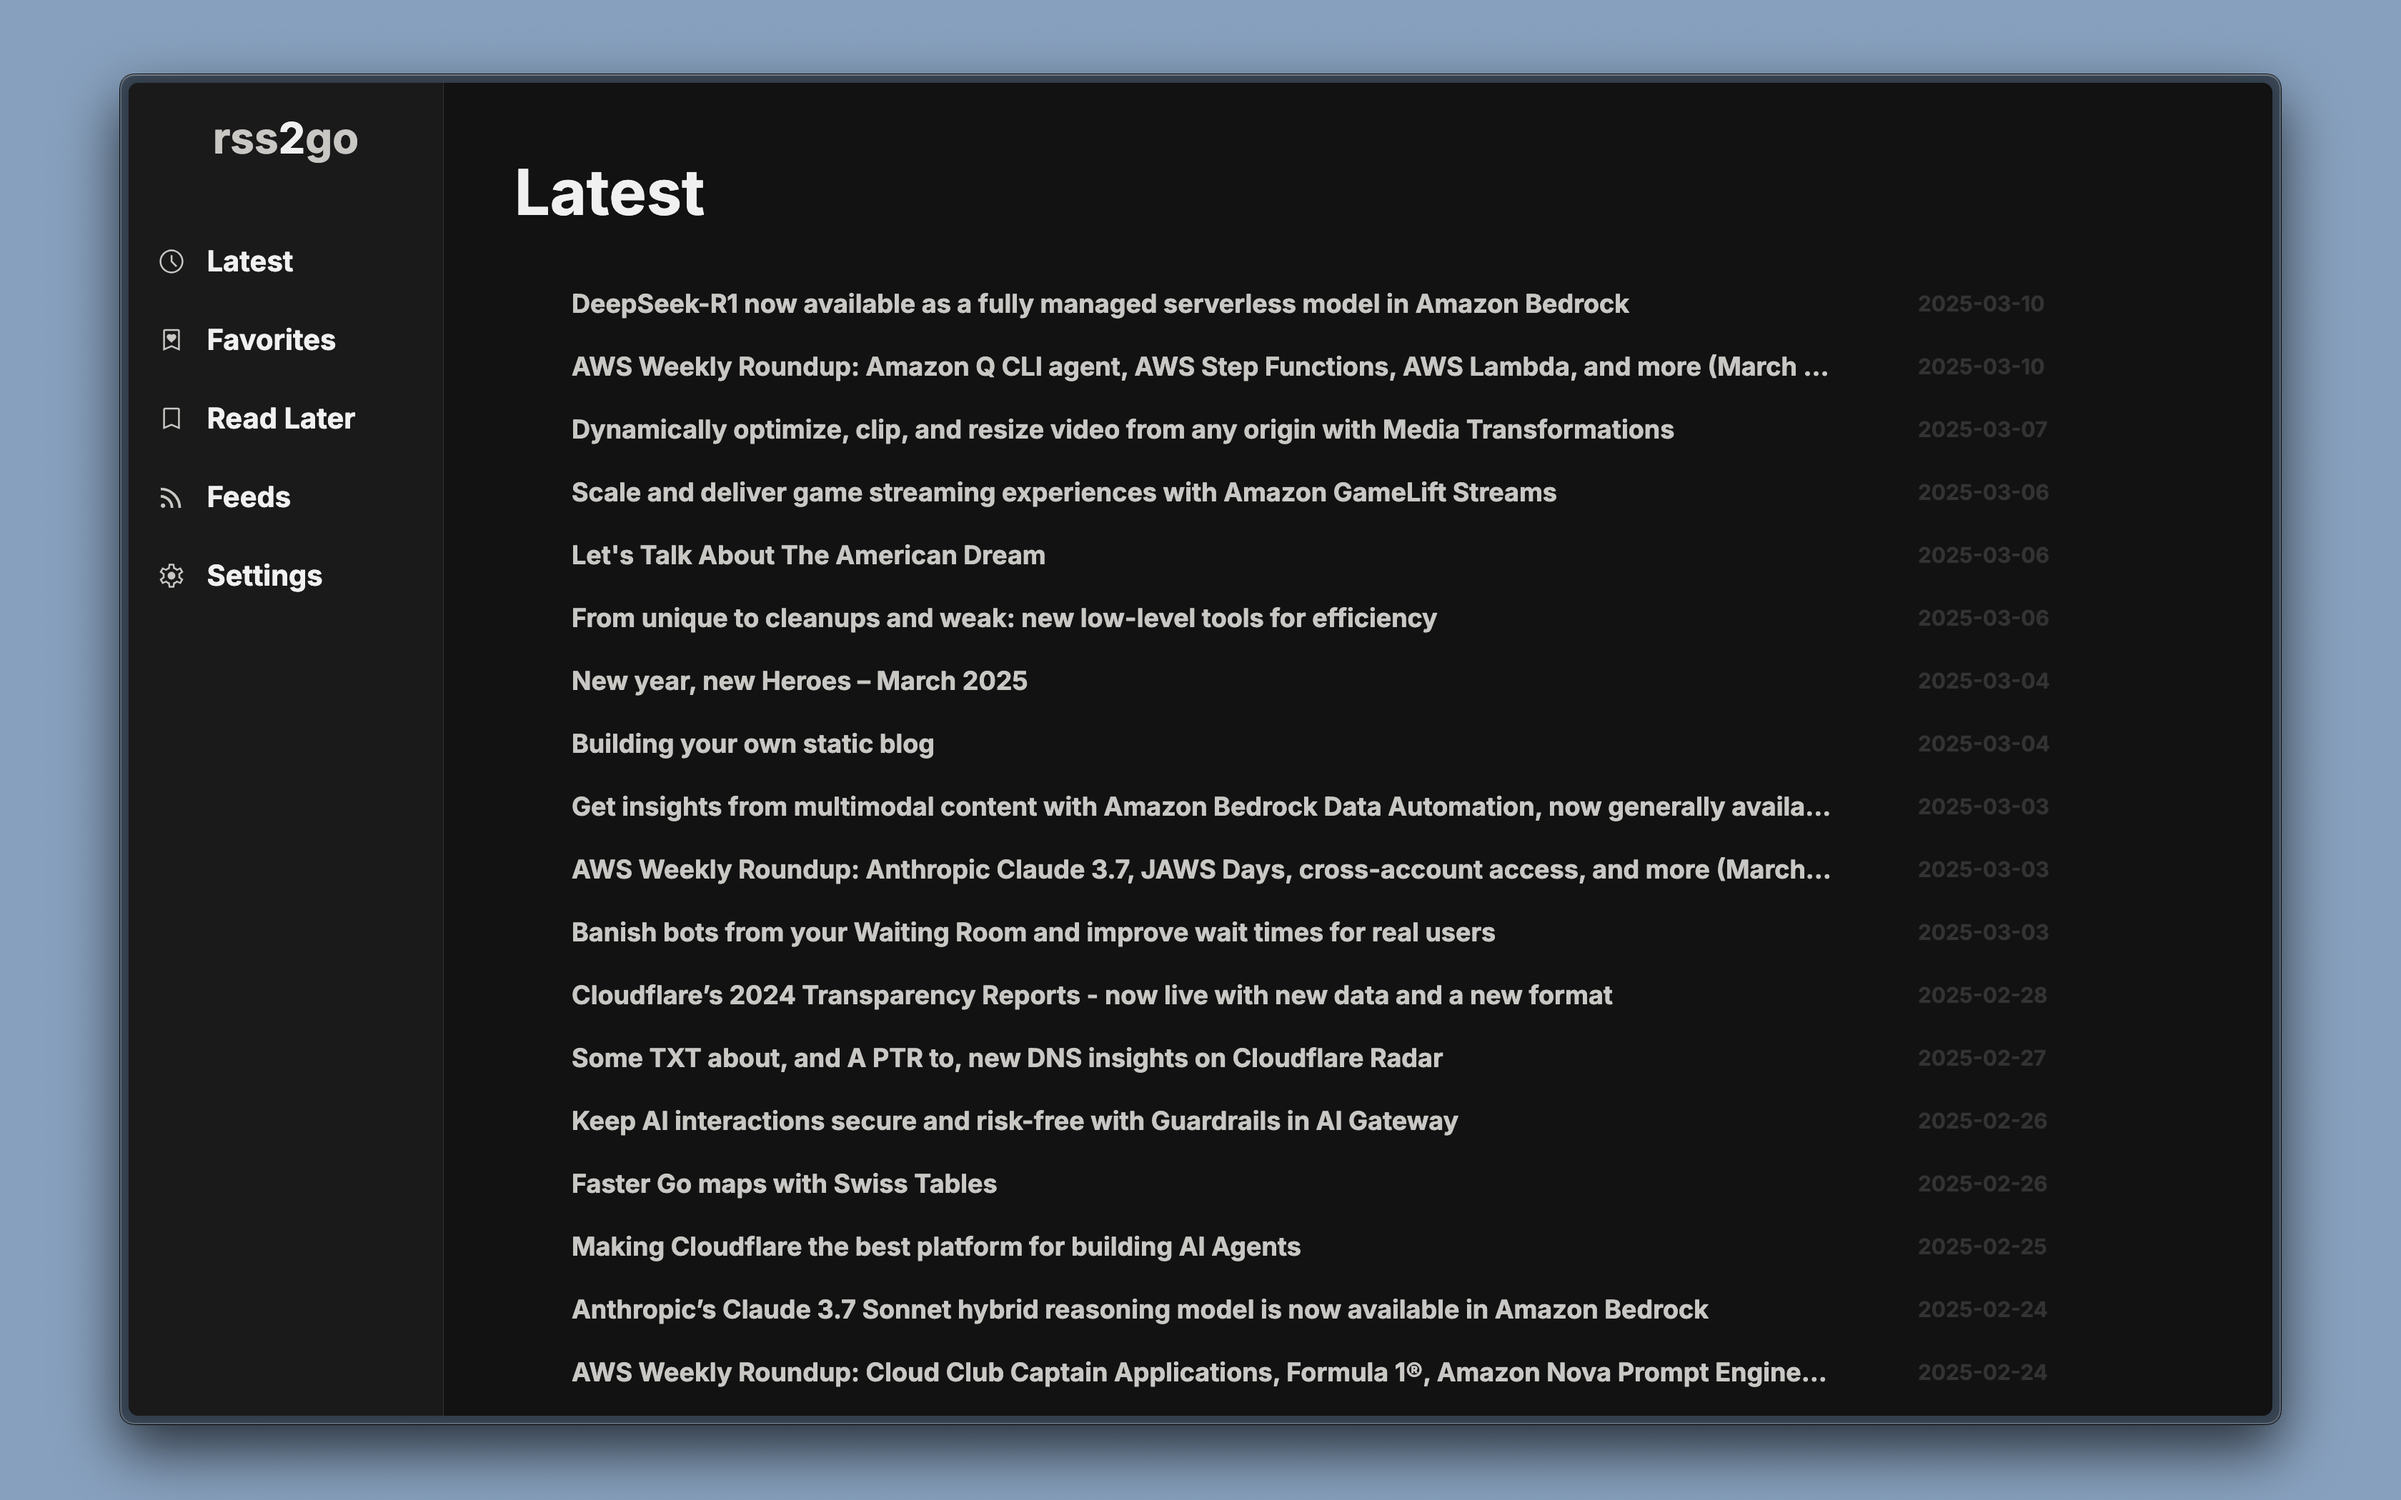
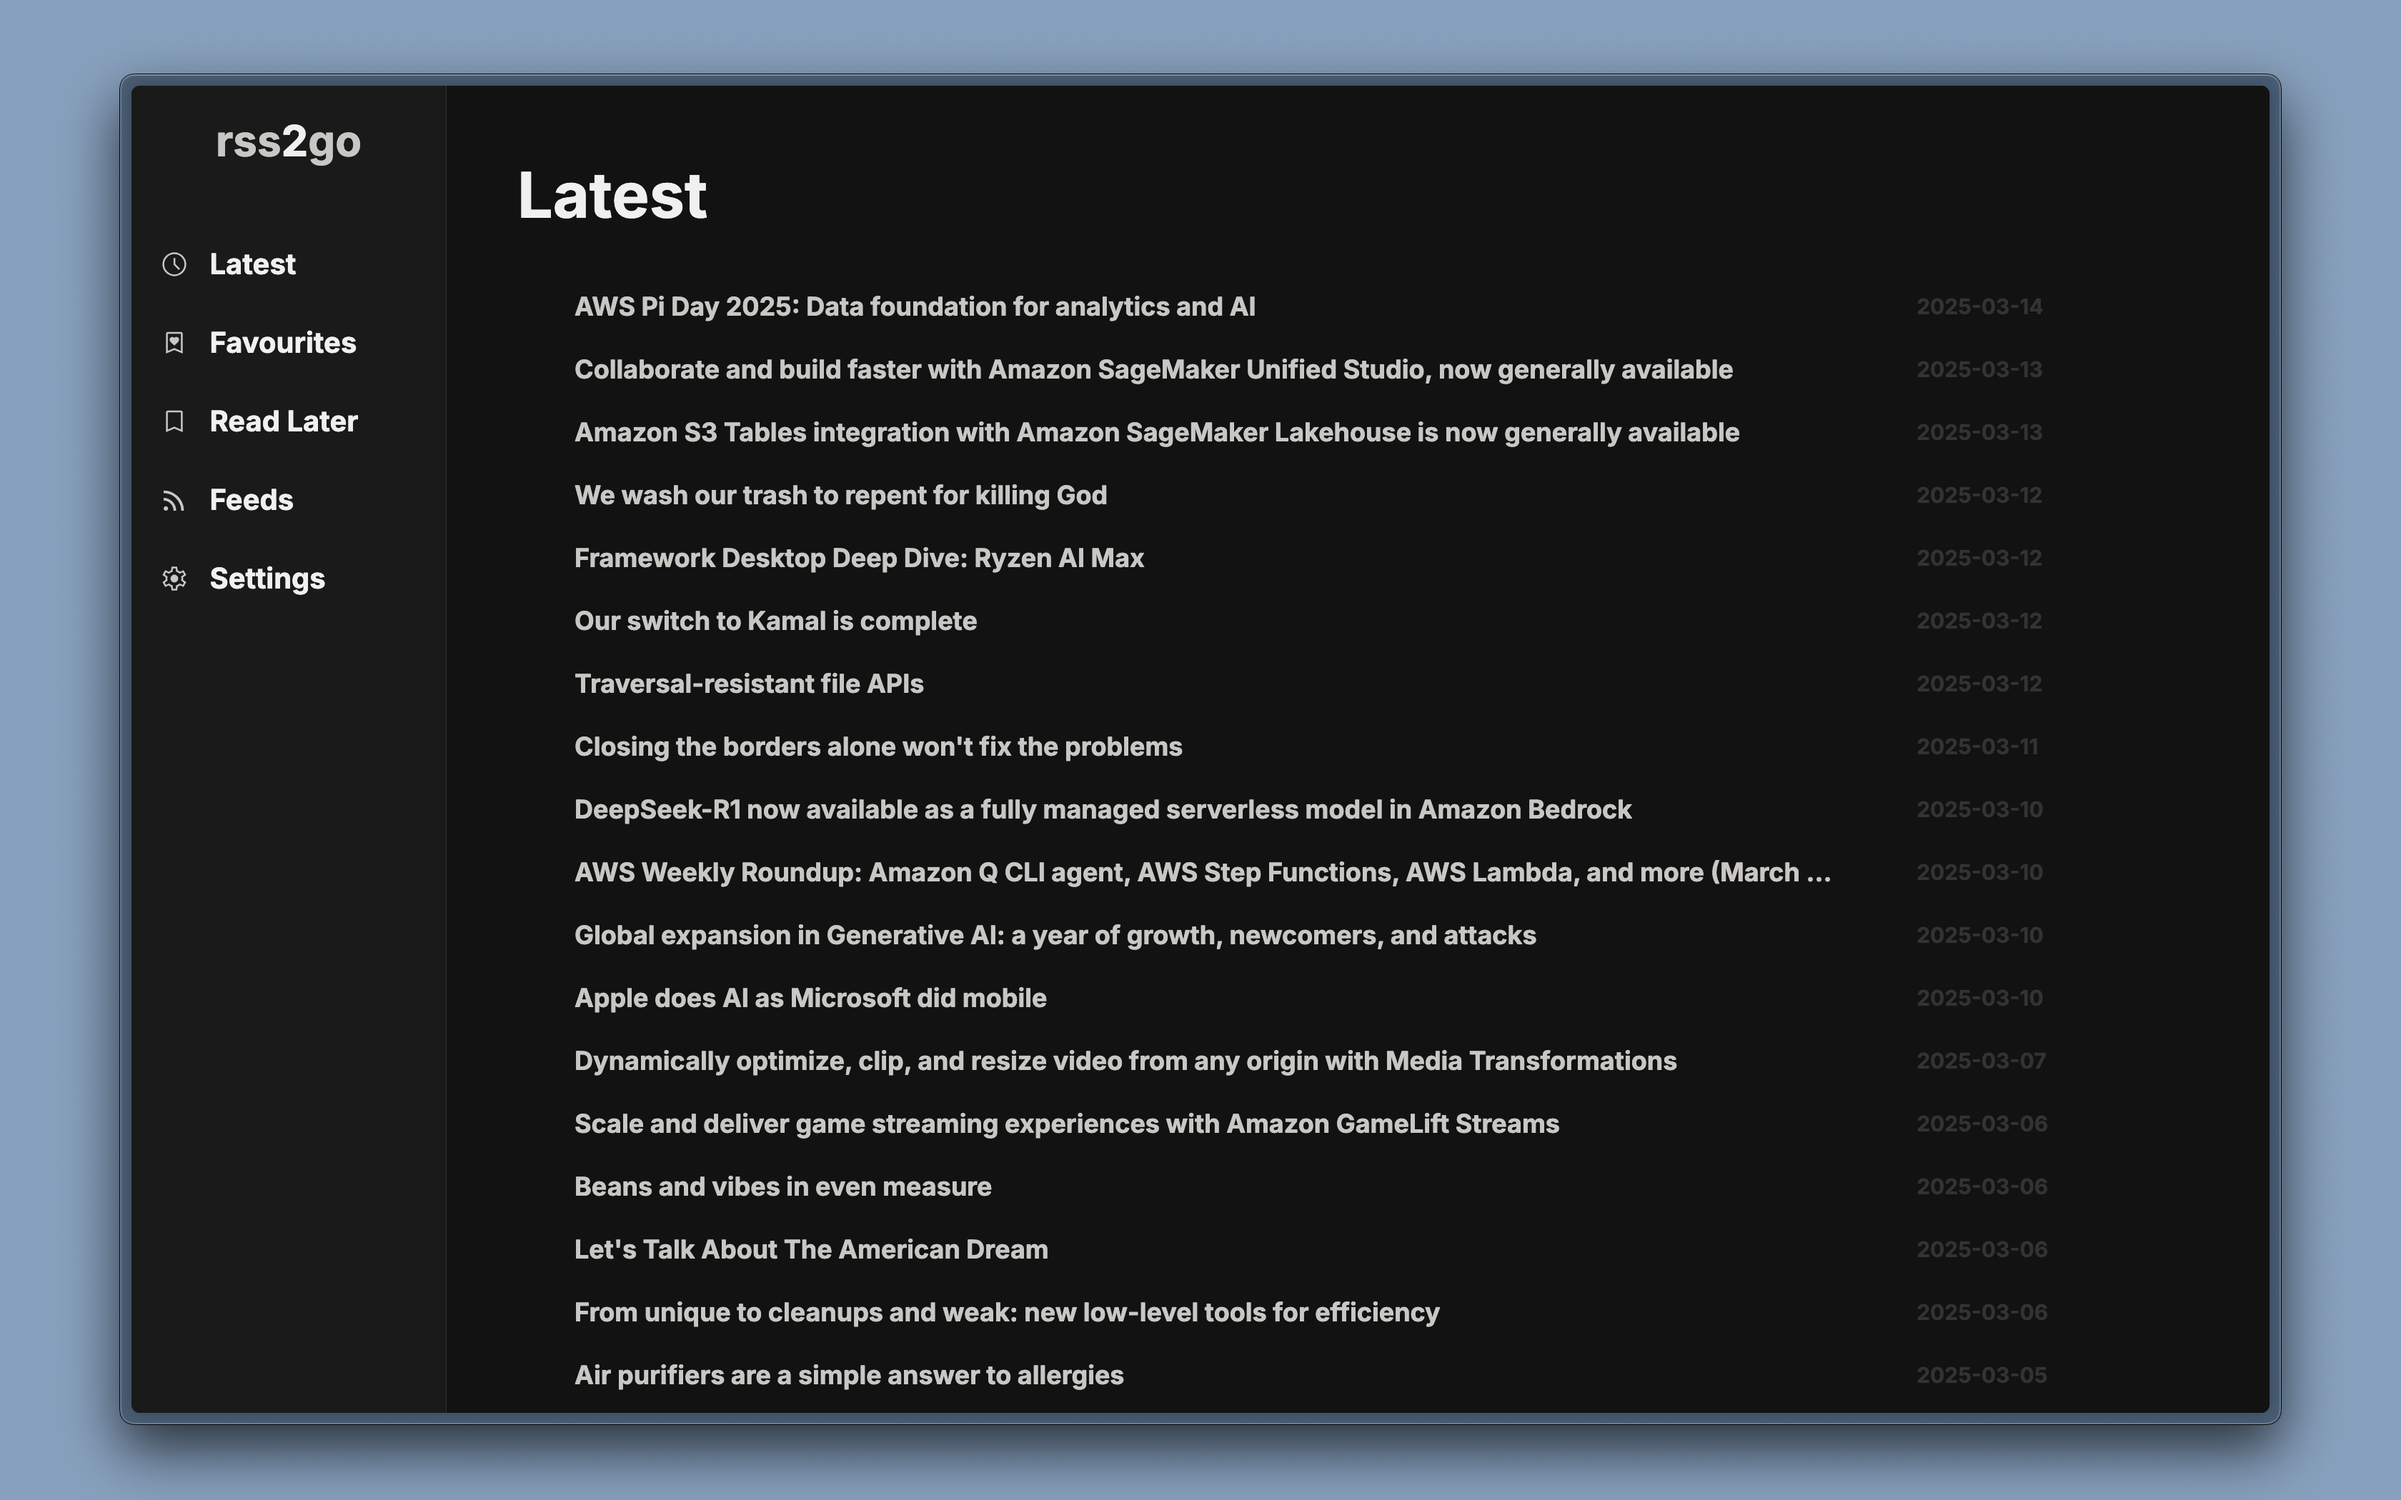
adding gavourite feature and updating spelling (#16)

diff --git a/internal/routes/favourite.go b/internal/routes/favourite.go
@@ -11,9 +11,9 @@ import (
 	"github.com/nathanberry97/rss2go/internal/services"
 )
 
-func postReadLater(router *gin.Engine) {
-	router.POST("/partials/later/:articleId", func(c *gin.Context) {
-		articleId := c.Param("articleId")
+func postFavourite(router *gin.Engine) {
+	router.POST("/partials/favourite/:id", func(c *gin.Context) {
+		articleId := c.Param("id")
 
 		dbConn := database.DatabaseConnection()
 		if dbConn == nil {
@@ -21,9 +21,9 @@ func postReadLater(router *gin.Engine) {
 			return
 		}
 
-		err := services.PostReadLater(dbConn, articleId)
+		err := services.PostFavourite(dbConn, articleId)
 		if err != nil {
-			c.JSON(http.StatusInternalServerError, gin.H{"error": "Error posting Read Later article: " + err.Error()})
+			c.JSON(http.StatusInternalServerError, gin.H{"error": "Error posting favourite article: " + err.Error()})
 			return
 		}
 
@@ -31,9 +31,9 @@ func postReadLater(router *gin.Engine) {
 	})
 }
 
-func deleteReadLater(router *gin.Engine) {
-	router.DELETE("/partials/later/:articleId", func(c *gin.Context) {
-		articleId := c.Param("articleId")
+func deleteFavourite(router *gin.Engine) {
+	router.DELETE("/partials/favourite/:id", func(c *gin.Context) {
+		articleId := c.Param("id")
 
 		dbConn := database.DatabaseConnection()
 		if dbConn == nil {
@@ -41,9 +41,9 @@ func deleteReadLater(router *gin.Engine) {
 			return
 		}
 
-		err := services.DeleteReadLater(dbConn, articleId)
+		err := services.DeleteFavourite(dbConn, articleId)
 		if err != nil {
-			c.JSON(http.StatusInternalServerError, gin.H{"error": "Error deleting Read Later article: " + err.Error()})
+			c.JSON(http.StatusInternalServerError, gin.H{"error": "Error deleting favourite article: " + err.Error()})
 			return
 		}
 
@@ -51,8 +51,8 @@ func deleteReadLater(router *gin.Engine) {
 	})
 }
 
-func getReadLater(router *gin.Engine) {
-	router.GET("/partials/later", func(c *gin.Context) {
+func getFavourites(router *gin.Engine) {
+	router.GET("/partials/favourite", func(c *gin.Context) {
 		page, err := strconv.Atoi(c.DefaultQuery("page", "0"))
 		if err != nil || page < 0 {
 			c.JSON(http.StatusBadRequest, gin.H{"error": "Invalid page parameter"})
@@ -71,13 +71,13 @@ func getReadLater(router *gin.Engine) {
 			return
 		}
 
-		articles, err := services.GetReadLater(dbConn, page, limit)
+		articles, err := services.GetFavourites(dbConn, page, limit)
 		if err != nil {
-			c.JSON(http.StatusInternalServerError, gin.H{"error": "Error getting Read Later article: " + err.Error()})
+			c.JSON(http.StatusInternalServerError, gin.H{"error": "Error getting favourites article: " + err.Error()})
 			return
 		}
 
-		response := components.GenerateArticleList(articles, nil, schema.ArticlesReadLater)
+		response := components.GenerateArticleList(articles, nil, schema.ArticlesFavourite)
 		c.Data(http.StatusOK, "text/html; charset=utf-8", []byte(response))
 	})
 }

diff --git a/internal/services/favourite.go b/internal/services/favourite.go
@@ -1,0 +1,76 @@
+package services
+
+import (
+	"database/sql"
+	"fmt"
+
+	"github.com/nathanberry97/rss2go/internal/schema"
+)
+
+func PostFavourite(conn *sql.DB, id string) error {
+	query := "INSERT INTO favourites (article_id) VALUES (?)"
+
+	_, err := conn.Exec(query, id)
+	if err != nil {
+		return fmt.Errorf("failed to insert article into database: %w", err)
+	}
+
+	return nil
+}
+
+func DeleteFavourite(conn *sql.DB, id string) error {
+	query := "DELETE FROM favourites WHERE article_id = ?"
+
+	_, err := conn.Exec(query, id)
+	if err != nil {
+		return fmt.Errorf("failed to insert article into database: %w", err)
+	}
+
+	return nil
+}
+
+func GetFavourites(conn *sql.DB, page int, limit int) (schema.PaginationResponse, error) {
+	if page < 0 || limit <= 0 {
+		return schema.PaginationResponse{}, fmt.Errorf("invalid pagination parameters: page=%d, limit=%d", page, limit)
+	}
+
+	offset, nextPage := page*limit, page+1
+	query := `
+        SELECT id, title, url, published_at
+        FROM articles
+        WHERE id IN (SELECT article_id FROM favourites)
+        ORDER BY published_at DESC
+        LIMIT ? OFFSET ?
+    `
+
+	rows, err := conn.Query(query, limit, offset)
+	if err != nil {
+		return schema.PaginationResponse{}, fmt.Errorf("error querying database: %w", err)
+	}
+	defer rows.Close()
+
+	articles, err := formatArticles(rows)
+	if err != nil {
+		return schema.PaginationResponse{}, fmt.Errorf("failed to format articles: %w", err)
+	}
+
+	countQuery := "SELECT COUNT(*) FROM favourites"
+	var totalItems int
+	if err := conn.QueryRow(countQuery).Scan(&totalItems); err != nil {
+		return schema.PaginationResponse{}, fmt.Errorf("failed to get total items: %w", err)
+	}
+
+	remainingItems := totalItems - (page + 1*limit)
+	if remainingItems <= 0 {
+		nextPage = -1
+	}
+
+	response := schema.PaginationResponse{
+		TotalItems: totalItems,
+		NextPage:   nextPage,
+		Limit:      limit,
+		Items:      articles,
+	}
+
+	return response, nil
+}

diff --git a/internal/components/index.go b/internal/components/index.go
@@ -20,6 +20,14 @@ func GenerateArticleQuery(query schema.QueryKey, feedId *string) template.HTML {
              hx-swap="afterend">
         </div>
         `
+	case schema.ArticlesFavourite:
+		queryTemplate = `
+        <div id="articles"
+             hx-trigger="revealed"
+             hx-get="/partials/favourite?page=0"
+             hx-swap="afterend">
+        </div>
+        `
 	case schema.ArticlesReadLater:
 		queryTemplate = `
         <div id="articles"
@@ -73,6 +81,8 @@ func GenerateArticleList(articles schema.PaginationResponse, feedId *int, query 
 		switch query {
 		case schema.Articles:
 			nextPageURL = fmt.Sprintf(`/partials/articles?page=%d`, articles.NextPage)
+		case schema.ArticlesFavourite:
+			nextPageURL = fmt.Sprintf(`/partials/favourite?page=%d`, articles.NextPage)
 		case schema.ArticlesReadLater:
 			nextPageURL = fmt.Sprintf(`/partials/later?page=%d`, articles.NextPage)
 		case schema.ArticlesByFeed:
@@ -122,9 +132,9 @@ func GenerateNavbar() template.HTML {
                     </a>
                 </li>
                 <li>
-                    <a href="/articles/favorites">
-                        <img src="/static/images/icons/favorite.svg" alt="Favorites" width="20" height="20" class="feed-icon">
-                        Favorites
+                    <a href="/articles/favourites">
+                        <img src="/static/images/icons/favourite.svg" alt="Favourites" width="20" height="20" class="feed-icon">
+                        Favourites
                     </a>
                 </li>
                 <li>

diff --git a/internal/routes/html_routes.go b/internal/routes/html_routes.go
@@ -55,16 +55,18 @@ func articlesByFeedPage(router *gin.Engine) {
 	})
 }
 
-func articlesFavorite(router *gin.Engine) {
-	router.GET("/articles/favorites", func(c *gin.Context) {
-		title := c.DefaultQuery("title", "Favorites")
+func articlesFavourite(router *gin.Engine) {
+	router.GET("/articles/favourites", func(c *gin.Context) {
+		title := c.DefaultQuery("title", "Favourites")
 		navbar := components.GenerateNavbar()
 		metadata := components.GenerateMetaData()
+		query := components.GenerateArticleQuery(schema.ArticlesFavourite, nil)
 
-		c.HTML(200, "placeholder.tmpl", gin.H{
+		c.HTML(200, "articles.tmpl", gin.H{
 			"title":    title,
 			"navbar":   navbar,
 			"metadata": metadata,
+			"query":    query,
 		})
 	})
 }

diff --git a/internal/routes/initialise_router.go b/internal/routes/initialise_router.go
@@ -12,7 +12,7 @@ func InitialiseRouter() *gin.Engine {
 
 	// HTML routes
 	articlesByFeedPage(router)
-	articlesFavorite(router)
+	articlesFavourite(router)
 	articlesPage(router)
 	articlesReadLater(router)
 	feedsPage(router)
@@ -31,6 +31,11 @@ func InitialiseRouter() *gin.Engine {
 	deleteReadLater(router)
 	getReadLater(router)
 	postReadLater(router)
+
+	// Favourite routes
+	deleteFavourite(router)
+	getFavourites(router)
+	postFavourite(router)
 
 	return router
 }

diff --git a/internal/schema/index.go b/internal/schema/index.go
@@ -8,6 +8,7 @@ type QueryKey string
 const (
 	Articles          QueryKey = "articles"
 	ArticlesReadLater QueryKey = "articlesReadLater"
+	ArticlesFavourite QueryKey = "articlesFavourite"
 	ArticlesByFeed    QueryKey = "articlesByFeed"
 )
 

diff --git a/TODO.md b/TODO.md
@@ -36,12 +36,6 @@
     - [ ] Add Favourite button
     - [ ] Add loading animations
 
-* [ ] Favourite articles
-  - [ ] POST
-  - [ ] GET
-  - [ ] DELETE
-  - [ ] Frontend
-
 ## In progress
 
 ## Completed
@@ -63,3 +57,4 @@
 * [X] Create placeholder pages
 * [X] Clean up templates
 * [X] Read later
+* [X] Favourite articles
